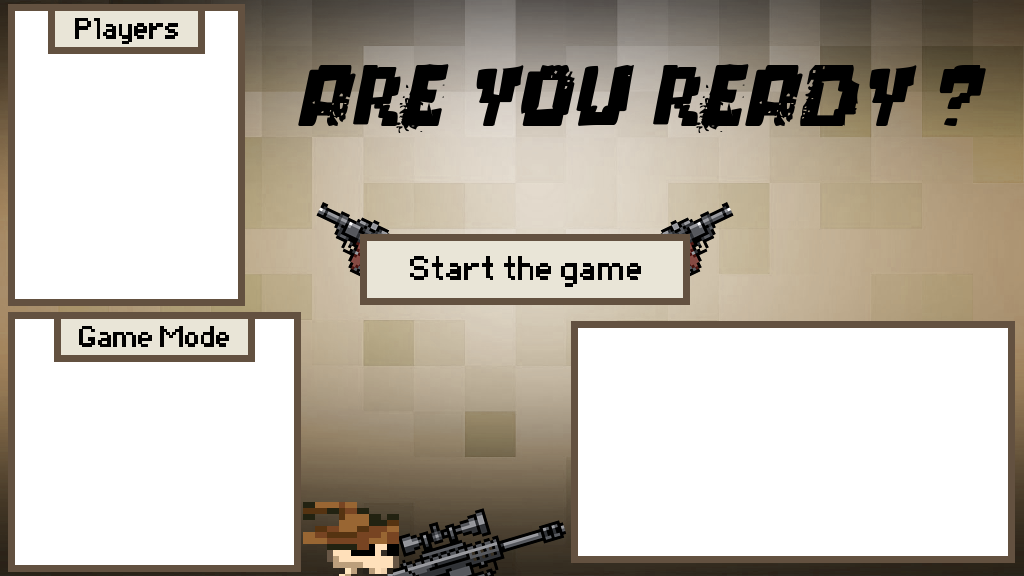
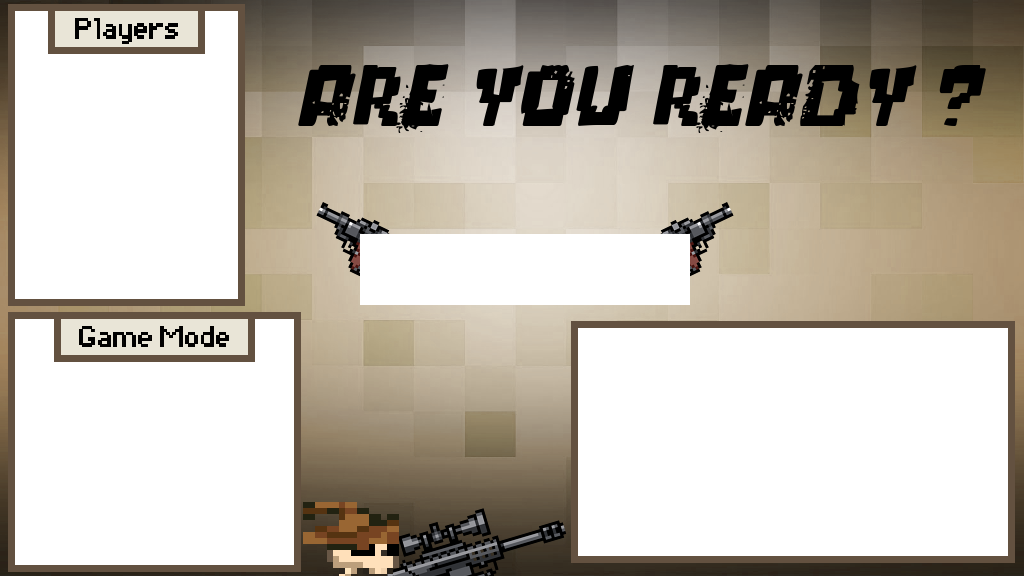
Pre-game background added

Changed region(s): [[0.3438, 0.4062, 0.6875, 0.5312]]

diff --git a/src/callofmuty/GamePanel.java b/src/callofmuty/GamePanel.java
@@ -60,7 +60,8 @@ public class GamePanel extends JPanel{
             SoundsIcon = Tools.loadIcon("Sound.png"),
             muteSoundsIcon = Tools.loadIcon("Mute.png"),
             MusicIcon = Tools.loadIcon("Music.png"),
-            muteMusicIcon = Tools.loadIcon("muteMusic.png");
+            muteMusicIcon = Tools.loadIcon("muteMusic.png"),
+            startGameIcon = Tools.loadIcon("StartGame.png");
             
     
     
@@ -544,10 +545,10 @@ public class GamePanel extends JPanel{
         });
         
         //Pre game interface
-        JButton startButton = new JButton("Start");
+        JButton startButton = new JButton();
         startButton.setVisible(false);
-        startButton.setBounds(286, 300, joinGameIcon.getIconWidth(), joinGameIcon.getIconHeight());
-        //connectButton.setPressedIcon(pressedJoinGameIcon);
+        startButton.setIcon(startGameIcon);
+        startButton.setBounds(360, 234, startGameIcon.getIconWidth(), startGameIcon.getIconHeight());
         add(startButton);
         PGbuttons.add(startButton);
         
@@ -1031,7 +1032,8 @@ public void paint(Graphics g) {
                     component.setVisible(false);
                 }
                 for (JComponent component : PGbuttons){
-                    component.setVisible(isHost);
+                    component.setVisible(true);
+                    component.setEnabled(isHost);
                 }
                 break;
             case IN_GAME:

diff --git a/src/callofmuty/Map.java b/src/callofmuty/Map.java
@@ -91,10 +91,9 @@ public class Map{
                 setDrawingParameters(100,100,mapWidth*textureSize - 100, mapHeight*textureSize-100);
                 break;
             case GamePanel.IN_GAME:
-                xPos = 0;
-                yPos = 0;
-                drawHeight = mapHeight*textureSize;
-                drawWidth = mapWidth*textureSize;
+                setDrawingParameters(0,0,mapHeight*textureSize,mapWidth*textureSize);
+            case GamePanel.PRE_GAME:
+                setDrawingParameters(585, 330, 425, 230);
         }
     }
 
